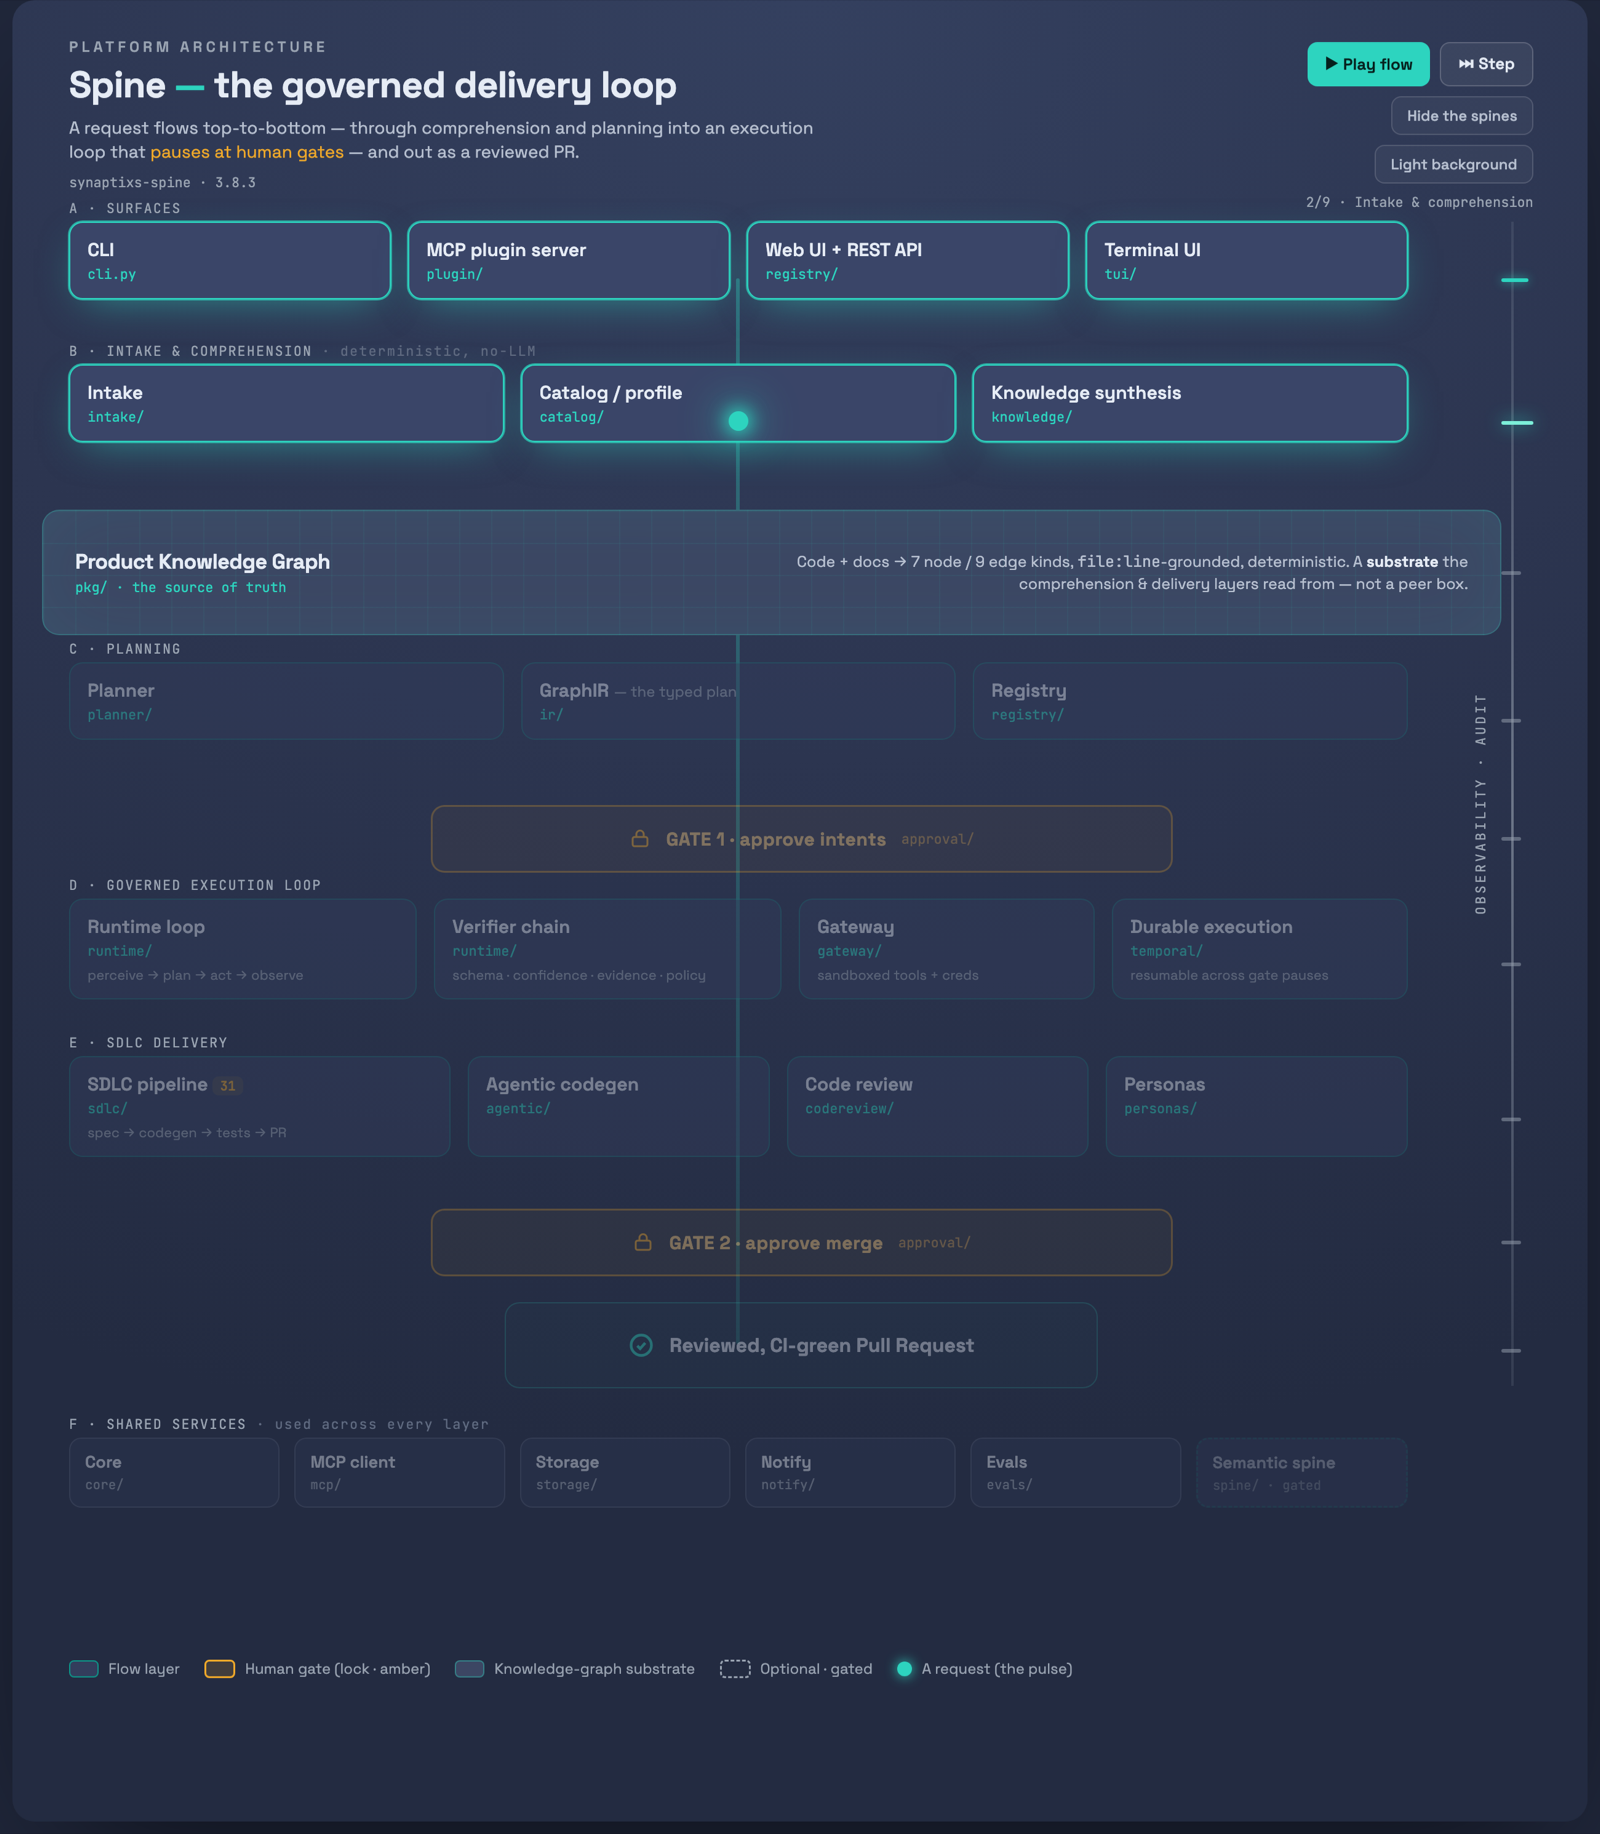
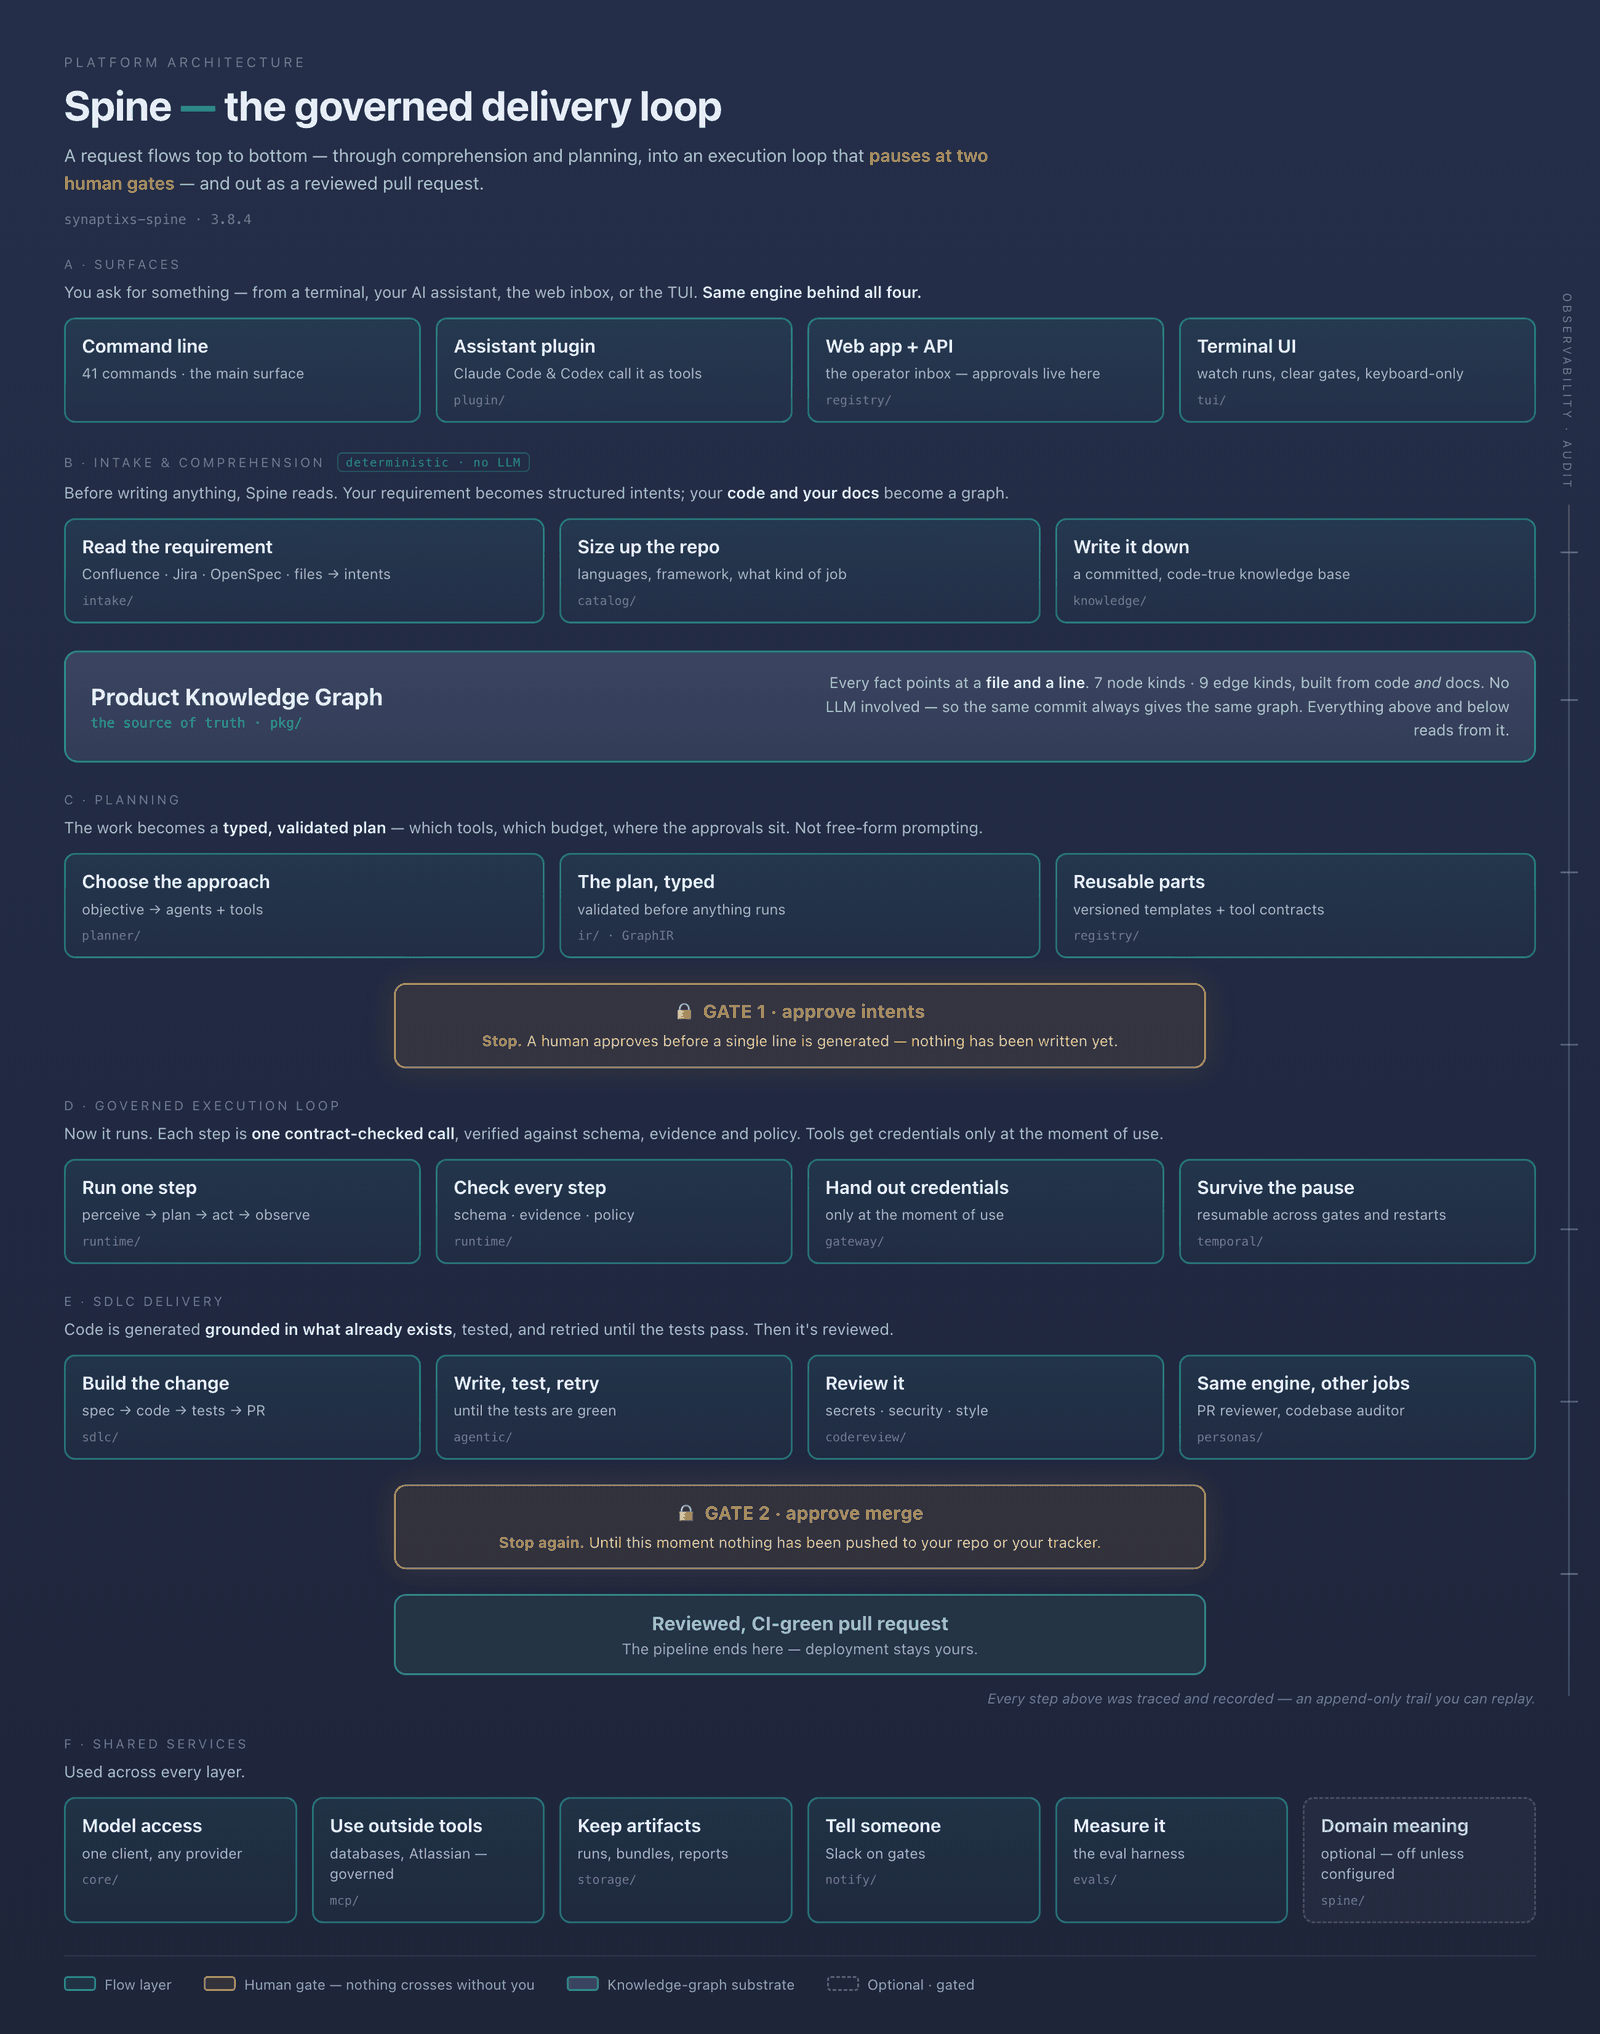
Sync from private @ c69514e (v3.8.4)

diff --git a/CHANGELOG.md b/CHANGELOG.md
@@ -4,6 +4,26 @@ All notable changes to this project are documented here. Format loosely follows
 [Keep a Changelog](https://keepachangelog.com/); the package is `synaptixs-spine`
 (import/CLI stay `orchestrator`).
 
+## 3.8.4 — The architecture diagram now explains itself
+
+The 3.8.3 diagram named its components but didn't say what they *do* — boxes read
+`CLI · cli.py`, which tells you a module exists, not why it's there. Redrawn so every box
+answers "what is this for?", and every layer carries a plain-English line describing what
+happens there. Documentation only; no code change.
+
+### Changed
+
+- **Every box now has a purpose line** — `Command line · 41 commands · the main surface`,
+  `Hand out credentials · only at the moment of use`. Package paths (`plugin/`, `runtime/`)
+  drop to a dimmed third line: useful to a contributor, noise to everyone else. No box is
+  labelled with a filename any more.
+- **Each layer is narrated.** A sentence under every layer heading says what is happening —
+  *"Before writing anything, Spine reads."* — and both gates now read **"Stop."**, spelling out
+  that nothing has been written before gate one and nothing pushed before gate two.
+- Plainer names over internal jargon: *Read the requirement* rather than `Intake`, *The plan,
+  typed* rather than `GraphIR`.
+- The image is **72% smaller** (1.3 MB → 0.37 MB) at the same resolution.
+
 ## 3.8.3 — Architecture diagram
 
 Adds a full **architecture diagram** and an [ARCHITECTURE.md](ARCHITECTURE.md) that walks the whole
